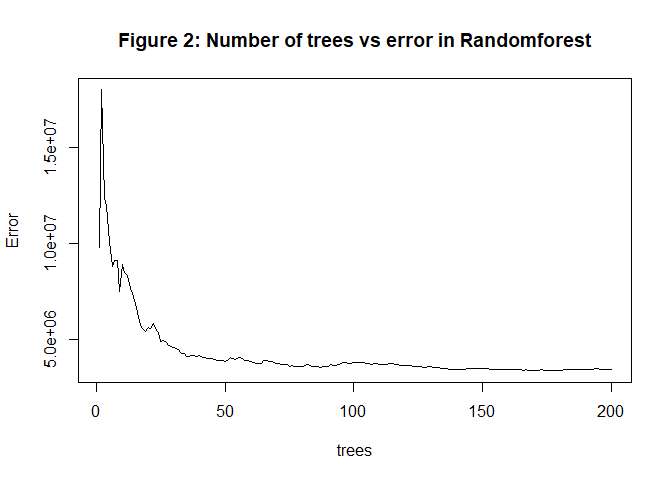
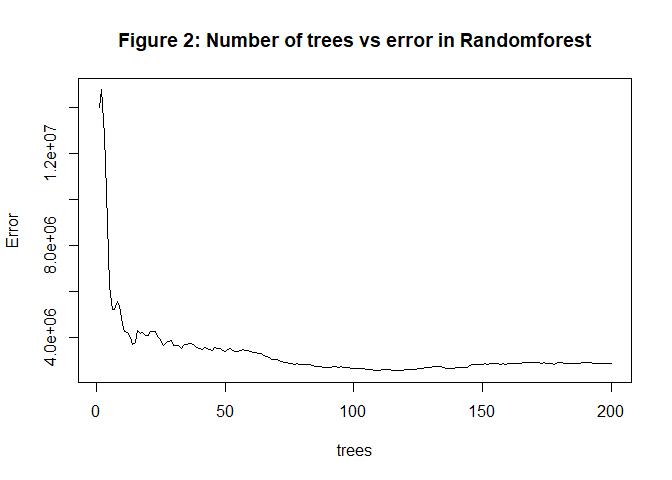
test

diff --git a/Final_rmd.md b/Final_rmd.md
@@ -16,14 +16,14 @@ Abstract
 In this project, we looked into the effect of prison expansion across
 various prisons in the state of Texas. To assess the causal effect of
 increased prison capacity on black male population incarceration, we
-first used the difference-in-difference estimator to see the validity of
-the parallel trends assumption. Then, in order to overcome the
-limitations of difference in difference, we explored three alternative
-predictive analysis models, i.e. Lasso regression, Random Forests, and
-Boosting model respectively to test their performances via K-fold
-validation to determine the most accurate model. As a result, our model
-fits very well on real data suggesting the high possibility of
-predicting counterfactuals.
+first used the Differences-in-Differences estimator and argued about the
+validity of the parallel trends assumption. Then, in order to overcome
+potential weaknesses of the Diff-in-Diff model in this research project,
+we explored three alternative predictive analysis models, i.e. Lasso
+regression, Random Forests, and Boosting model respectively to test
+their performances via K-fold validation to determine the most accurate
+model. As a result, our model fits data quite accurately suggesting the
+high possibility of predicting counterfactuals.
 
 Introduction
 ------------
@@ -50,7 +50,7 @@ and why this assumption is required. By decreasing the outcome after
 treatment from the outcome before treatment for a treated state, the
 difference (D1) is going to be the effect caused by the treatment (E)
 plus a trend (T). This step neutralizes unobserved factors of a
-particular state. For a state that wasn’t treated, the difference (D1)
+particular state. For a state that wasn't treated, the difference (D1)
 before and after treatment is the trend (T) only. So, if we assume that
 T is the same for both states, we can decrease T, that was measured from
 the control state, from T + E in order to isolate the causal effect E.
@@ -86,7 +86,7 @@ ended up doubling the state’s capacity within 3 years.
 Cunningham (2020) argues that the nature of this expansion allows us to
 use it as a natural experiment to estimate the effect of prison
 expansion on incarceration. He uses the synthetic control method to
-predict counterfactuals as in Abadie et al. (2010) by searching for the
+predict counterfactuals as in Abadie et al. (2010) by searching for the
 set of weights that generate the best fitting convex combination of the
 control units, being the best the one that minimizes root mean square
 error in the pre-treatment period.
@@ -132,7 +132,7 @@ RESULTS
 ### Differences-in-Differences
 
 In order to have a baseline model which preserve the same parameters
-that were included in Cunningham’s analysis, the Diff-in-Diff model is:
+that were included in Cunningham's analysis, the Diff-in-Diff model is:
 
     # bmprison ~ alcohol + aidscapita + income + ur + poverty + black + perc1519 + year + state + year_after1993*state_texas
 
@@ -166,7 +166,7 @@ when considering state and year fixed effects. It also allows us the
 test the plausibility of parallel trends in the pre-treatment period. As
 we are including controls and fixed effects, there should be less to be
 explained by the coefficients to the left of the grey vertical line
-since the only difference should be the treatment itself, and it didn’t
+since the only difference should be the treatment itself, and it didn't
 occur in years prior to the intervention.
 
 ![](Final_rmd_files/figure-markdown_strict/4.2.3-1.png)
@@ -174,7 +174,7 @@ occur in years prior to the intervention.
 A test of joint significance of the leads coefficients, as in Kearney
 and Levine (2015), reject the null hypothesis that they are jointly
 equal to zero (p-value = 0.006). Therefore, it provides evidence that
-the parallel trends assumption doesn’t hold even in the pre-treatment
+the parallel trends assumption doesn't hold even in the pre-treatment
 period, indicating the necessity of exploring different methods.
 
     ## 
@@ -193,8 +193,8 @@ respectively and tested their performances by K-fold validation.
 ### Lasso Regression
 
 First, we fit a lasso regression. From the baseline model we used in
-diff-in-diff analysis, we added one more variable - ‘crack’, hoping it
-can enhance our model’s predictive power, and considered all possible
+diff-in-diff analysis, we added one more variable - 'crack', hoping it
+can enhance our model's predictive power, and considered all possible
 interactions.
 
 As a result, we obtained a model with 181 variables with an intercept.
@@ -207,7 +207,7 @@ the model estimate the change of black male prisoners which is not
 affected by the policy implementation.\`
 
 When we calculate RMSE for the backward selection model, it turned out
-to be 408.35.
+to be 408.43.
 
 ### RandomForest
 
@@ -218,7 +218,7 @@ reduce our errors.
 
 ![](Final_rmd_files/figure-markdown_strict/4.3.4-1.png)
 
-The K-fold validation result shows that the RMSE is 1780.29 which is
+The K-fold validation result shows that the RMSE is 1752.99 which is
 about 4 times larger than the RMSE of lasso regression.
 
 ### Boosting
@@ -226,7 +226,7 @@ about 4 times larger than the RMSE of lasso regression.
 Lastly, we used a boosting model with the same baseline model and did
 K-fold validation as we did above.
 
-The result of our K-fold cross validation shows that the RMSE is 879.39
+The result of our K-fold cross validation shows that the RMSE is 808.5
 which is lower than the RandomForest model but still higher than the
 lasso regression. \[Table 3\] shows that the lasso regression has the
 best predictive power among all the models that we tested.
@@ -238,10 +238,10 @@ best predictive power among all the models that we tested.
     ## +-----------+--------+--------------+----------+
     ## | **Model** | Lasso  | Randomforest | Boosting |
     ## +-----------+--------+--------------+----------+
-    ## | **RMSE**  | 408.35 |   1780.29    |  879.39  |
+    ## | **RMSE**  | 408.43 |   1752.99    |  808.50  |
     ## +-----------+--------+--------------+----------+
 
-### Comparing the best model’s predictions with the observed data
+### Comparing the best model's predictions with the observed data
 
 Since we have assessed our best predictive model, now we can compare its
 predictions with the real data in our whole data set. We can see how our
@@ -258,10 +258,10 @@ fits very well on real data of controlled states.
 
 For inference purposes, it is recommended to estimate a confidence
 interval rather than showing the point estimate only. Therefore, we used
-a bootstrap to calculate the standard deviation of the parameter’s
+a bootstrap to calculate the standard deviation of the parameter's
 resampling distribution. The results are ADD THE RESULTS AND PLOT
 
-![](Final_rmd_files/figure-markdown_strict/4.3.10-1.png)![](Final_rmd_files/figure-markdown_strict/4.3.10-2.png)
+![](Final_rmd_files/figure-markdown_strict/4.3.10-1.png)
 
     ## [1] 25254.73
 
@@ -270,16 +270,16 @@ Conclusion
 
 The analysis showed that alternative supervised learning methods can
 play a big role in predicting counterfactuals when there are reasons to
-believe that the traditional assumptions don’t hold. It is important to
-notice that it is upon to the researcher’s discretion how to do it in
-practice, and it might open up space for “p-hacking” when moving away
+believe that the traditional assumptions don't hold. It is important to
+notice that it is upon to the researcher's discretion how to do it in
+practice, and it might open up space for "p-hacking" when moving away
 from the best practices. In that sense, peer review/validation is
 crucial to ensure that the predictions are being yielded by models that
 minimize out of sample root mean square error, and randomness is
-fundamental to guarantee that the results aren’t being conveniently
+fundamental to guarantee that the results aren't being conveniently
 tampered.  
 Our dataset has only 816 observations due to the limitation of number of
-states and time span. We could have increased our model’s predictive
+states and time span. We could have increased our model's predictive
 power if we had had more observations, however, our model fits very well
 on real data of contolled states suggesting the possibility of
 predicting counterfactuals.
@@ -298,4 +298,4 @@ Methods for Comparative Case Studies: Estimating the Effect of
 California’s Tobacco Control Program
 
 Kearney, M.S. and Levine, P.B. (2015) Media Influences on Social
-Outcomes: The Impact of MTV’s 16 and Pregnant on Teen Childbearing
+Outcomes: The Impact of MTV's 16 and Pregnant on Teen Childbearing
